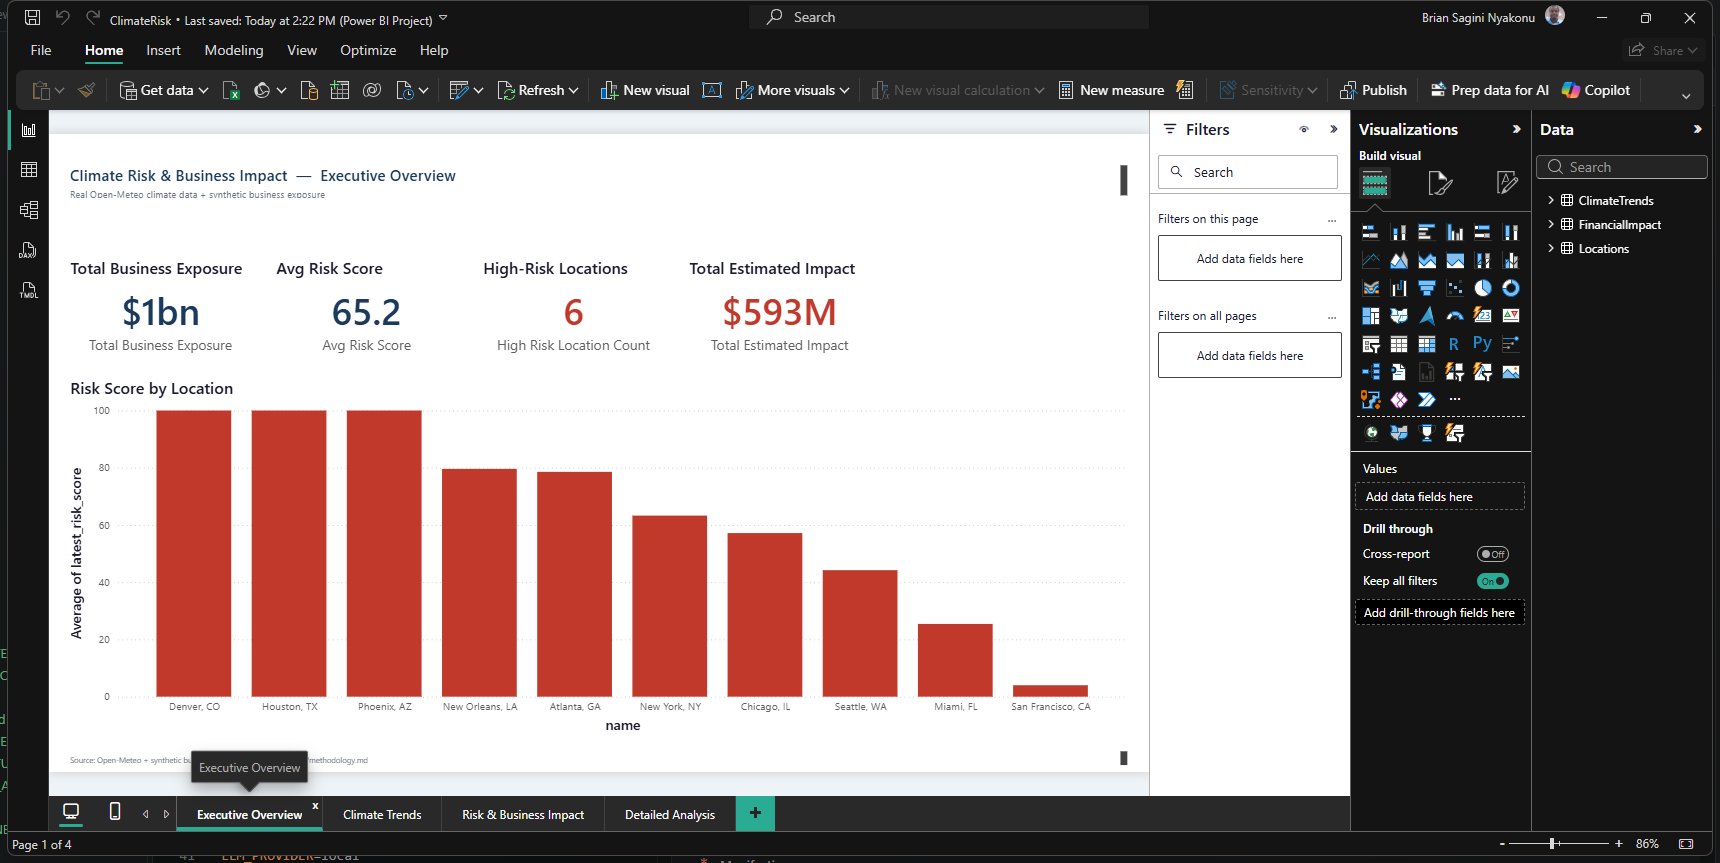
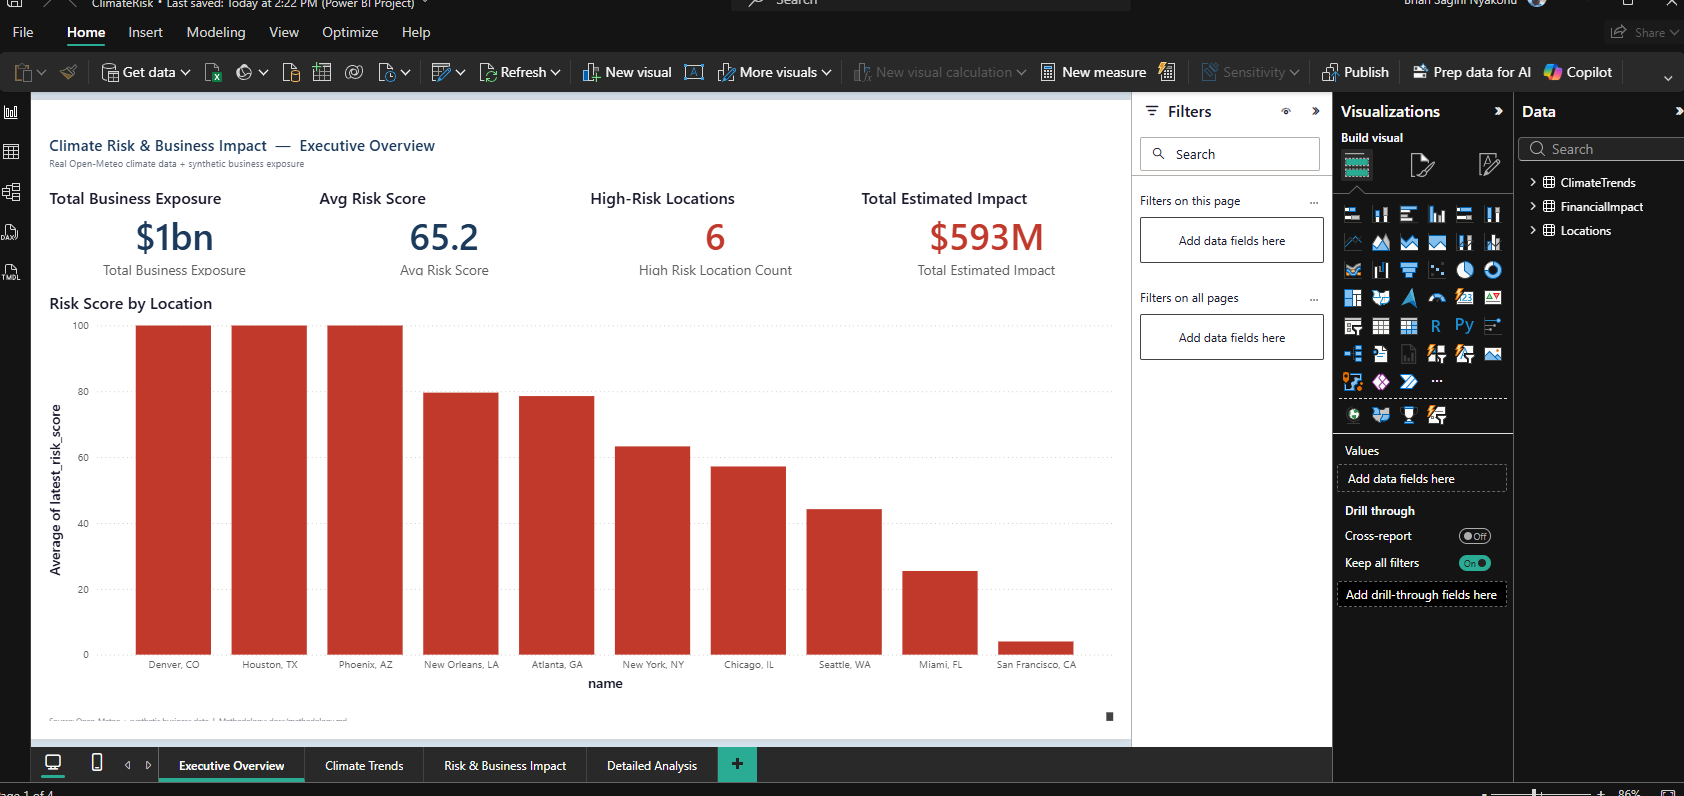
Tighten layout, fix canvas background, verify all pages in Desktop
Redid every page onto a dense 16px-margin/14px-gutter grid (visuals now
fill their row/column instead of stopping short), taking canvas fill from
~80% to ~88%. Fixed the canvas background: visualStyles.*.*.outspace does
not control the report page color -- confirmed live via Desktop's own
theme customizer that visualStyles.page.*.background is the real
property. All 4 pages reopened and confirmed rendering correctly.

diff --git a/docs/powerbi_guide.md b/docs/powerbi_guide.md
@@ -42,6 +42,15 @@ bugs**, both now fixed and confirmed by re-render:
    of red. Confirmed correct via Desktop's own save after setting the color through Format →
    Callout value → Color: cards use `objects.labels[0].properties.color`, not `dataPoint`.
 
+**Round 5 (this one)**: tightened every page's layout to a dense 16px-margin/14px-gutter grid
+(visuals resized to fill their row/column instead of stopping short), and fixed the canvas
+background — round 3's `visualStyles.*.*.outspace` tint turned out not to be the property that
+actually colors the page canvas; Desktop's own theme customizer confirmed the real property is
+`visualStyles.page.*.background`, now set to `#D6E4F0`. Both changes reopened and confirmed
+rendering correctly across all 4 pages (see [Visual inventory](#visual-inventory) for the density
+numbers and [Design system](#design-system--now-actually-applied-not-just-documented) for the
+background-property finding).
+
 ## Data connectivity
 
 - Get Data → Database → PostgreSQL database
@@ -75,60 +84,63 @@ Text `#1A1A2E`, Segoe UI. Accents: primary navy `#1B3A5C`, secondary teal `#2E8B
 blue `#3B82C4`, warning amber `#E8A33D`, critical red `#C0392B`. Bar/line charts only, no pie/3D/
 gauge (no map either — see Status above).
 
-**Background — three options considered, one picked**: (a) the originally-documented near-white
-`#F7F8FA` for the whole canvas — safe but reads as barely different from Power BI's own default,
-which was the actual complaint being fixed here; (b) a dark navy canvas with light "floating"
-cards — high-contrast and clearly branded, but risks visually competing with navy as an *accent*
-color used inside the charts themselves, and read as heavy for an 4-page, data-dense report;
-(c) a light canvas **tinted** toward the primary color (`#EEF3F7`, a pale blue-gray, not neutral
-gray) with white visual containers on top. **Picked (c)**: it's visibly not the generic default
-the moment the report opens, doesn't compete with in-chart accent colors, and stays readable/
-professional for a dense multi-visual page. Implemented as `visualStyles.*.*.outspace` (canvas)
-= `#EEF3F7` vs. each visual's own `background` = white, in `ClimateRiskTheme.json`.
+**Background — Desktop-confirmed canvas tint**: a pale blue-gray canvas (`#D6E4F0`) behind white
+visual containers, so panels read as distinct cards against a visibly-branded (not default-white)
+canvas. The property that actually controls this is `visualStyles.page.*.background` in
+`ClimateRiskTheme.json` — **not** `visualStyles.*.*.outspace`, which an earlier round wrongly
+assumed controlled the canvas and which Desktop's own theme customizer confirmed does something
+else (verified by setting the color live through View → Customize current theme → Page → Canvas
+background, saving, and reading back the JSON Desktop wrote). `outspace` is left in place at the
+same tint as a harmless no-op; `page.*.background` is the real fix.
 
-**Per-visual accent colors** (via each chart's `dataPoint.defaultColor` — only used on
+**Per-visual accent colors**: charts use each chart's `dataPoint.defaultColor` — only on
 single-measure charts, per Microsoft's own caution against flattening a multi-series chart to one
-color): Risk Score by Location → critical red (high risk = danger). Extreme Heat Days by Location
-→ warning amber. Estimated Financial Impact by Location → critical red (financial risk). Total
-Precipitation by Month → secondary teal. High-Risk Locations and Total Estimated Impact cards →
-critical red. Everything else (2-series charts, tables, the location slicer) is theme-driven —
-the theme's own `dataColors` sequence, not left uncolored.
+color. Cards use `objects.labels[0].properties.color`, **not** `dataPoint` — Desktop silently
+drops `dataPoint` from a card visual as invalid on load (confirmed the same way as the background
+fix, above), which is why some cards previously rendered in plain theme-default text despite a
+color being "set" in the file. Risk Score by Location → critical red (high risk = danger).
+Extreme Heat Days by Location → warning amber. Estimated Financial Impact by Location → critical
+red (financial risk). Total Precipitation by Month → secondary teal. High-Risk Locations and
+Total Estimated Impact cards → critical red. Everything else (2-series charts, tables, the
+location slicer) is theme-driven — the theme's own `dataColors` sequence, not left uncolored.
 
 **Header/footer**: every page gets a header text box (report name — page name, then a
 data-source line) and a footer text box (source + methodology pointer), both theme-colored, both
-real `textbox` visual objects (not decorative — see inventory below).
+real `textbox` visual objects.
+
+**Layout**: a standard dense grid — 16px canvas margin, 14px gutter between visuals, visuals
+resized to fill their row/column exactly rather than stopping short and leaving a dead margin.
+Before this pass, pages covered roughly 78–83% of the canvas by visual area, with a highly visible
+gap along the right/bottom edges; after, 87–88%, with the header/footer/cards/charts reading as
+one continuous grid rather than islands of content in a sea of margin.
 
 ## Visual inventory
 
-Every visual below is a real object in `powerbi/ClimateRisk.Report/definition/pages/*/visuals/`,
-generated by `scripts/gen_visuals.py`-equivalent tooling and listed here from the actual generated
-files, not from a plan.
+Every visual below is a real object in `powerbi/ClimateRisk.Report/definition/pages/*/visuals/`.
 
 **Page 1 — Executive Overview**
 - Total Business Exposure — Card — `Locations[Total Business Exposure]` — headline exposure KPI
 - Avg Risk Score — Card — `Locations[Avg Risk Score]`
 - High-Risk Locations — Card — `Locations[High Risk Location Count]`
 - Total Estimated Impact — Card — `FinancialImpact[Total Estimated Impact]`
-- Risk Score by Location — Clustered column chart — Category `Locations[name]`, Y `Locations[latest_risk_score]`
+- Risk Score by Location — Clustered column chart — Category `Locations[name]`, Y `Locations[latest_risk_score]` (Average aggregation)
 
 **Page 2 — Climate Trends**
-- Avg Temperature Max/Min by Month — Line chart — Category `ClimateTrends[month]`, Y `ClimateTrends[avg_temp_max_c]`, `ClimateTrends[avg_temp_min_c]`
-- Total Precipitation by Month — Line chart — Category `ClimateTrends[month]`, Y `ClimateTrends[total_precipitation_mm]`
+- Avg Temperature Max/Min by Month — Line chart — Category `ClimateTrends[month]`, Y `ClimateTrends[Avg Temp Max (C)]`, `ClimateTrends[Avg Temp Min (C)]`
+- Total Precipitation by Month — Line chart — Category `ClimateTrends[month]`, Y `ClimateTrends[Total Precipitation (mm)]`
 - Location — Slicer — `Locations[name]`
 
 **Page 3 — Risk & Business Impact**
-- Extreme Heat Days by Location — Clustered column chart — Category `Locations[name]`, Y `Locations[extreme_heat_days]`
-- Estimated Financial Impact by Location — Clustered column chart — Category `FinancialImpact[name]`, Y `FinancialImpact[estimated_impact_usd]`
-- Geographic Risk Distribution — Map (bubble) — Category `Locations[name]`, Latitude `Locations[lat]`, Longitude `Locations[lon]`, Size `Locations[latest_risk_score]`
+- Extreme Heat Days by Location — Clustered column chart — Category `Locations[name]`, Y `Locations[extreme_heat_days]` (Sum aggregation)
+- Estimated Financial Impact by Location — Clustered column chart — Category `FinancialImpact[name]`, Y `FinancialImpact[Total Estimated Impact]`
+- Geographic Risk Detail — Table — `Locations[name]`, `[lat]`, `[lon]`, `[latest_risk_score]` (a table, not a map — see Status above)
 - Risk Detail by Location — Table — `Locations[name]`, `[latest_risk_score]`, `[extreme_heat_days]`, `[heavy_precip_days]`
 
 **Page 4 — Detailed Analysis**
 - Location Detail — Table — `Locations[name]`, `[industry]`, `[latest_risk_score]`, `[asset_value_usd]`, `[moderate_scenario_impact_usd]`
 - Monthly Climate Detail — Table — `ClimateTrends[location_id]`, `[month]`, `[avg_temp_max_c]`, `[avg_temp_min_c]`, `[total_precipitation_mm]`
 
-**Total: 14 visuals across 4 pages.** No text boxes or conditional-formatting rules were added
-(both would need additional JSON this session couldn't verify renders correctly — safer to leave
-for a person to add in the UI, which is fast, than to guess at more schema).
+**Total: 22 visuals across 4 pages** (14 data visuals + a header and footer text box per page).
 
 ## Power BI Service publication: BLOCKED
 
